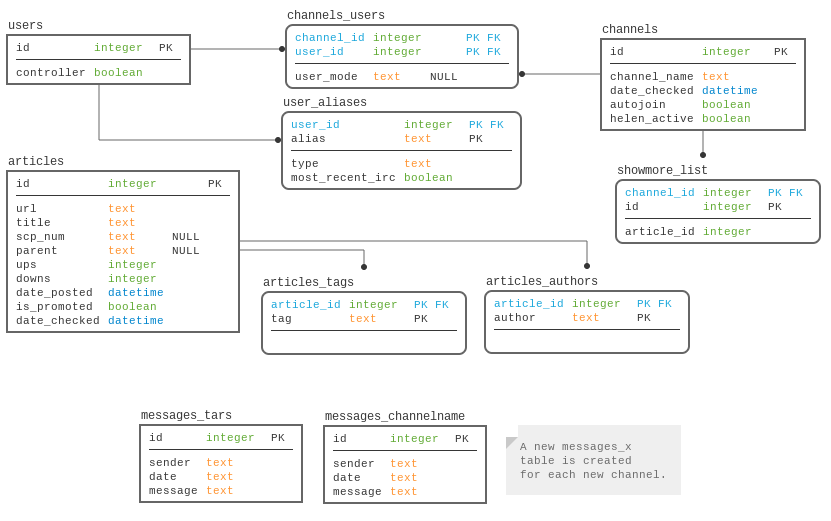
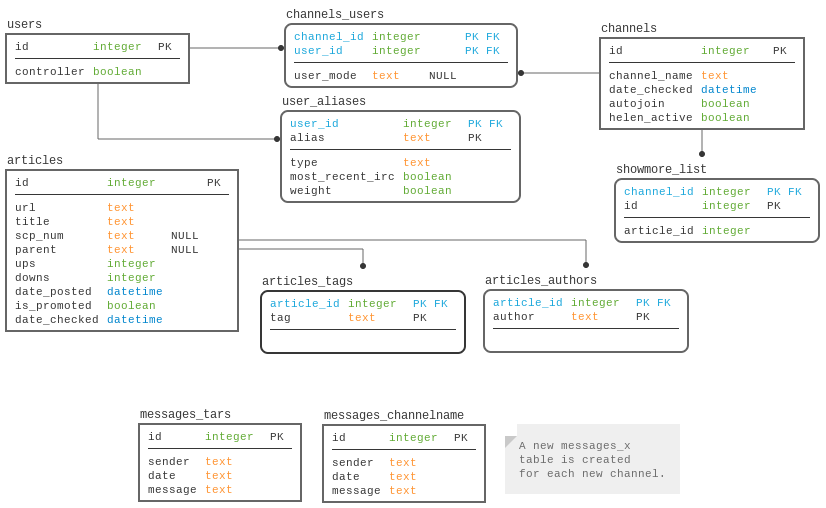
Add some database stuff

diff --git a/helpers/database.py b/helpers/database.py
@@ -117,6 +117,9 @@ class SqliteDriver:
                     CHECK (type IN ('irc','wiki','discord')),
                 most_recent_irc BOOLEAN NOT NULL
                     CHECK (most_recent_irc IN (0,1))
+                    DEFAULT 0,
+                weight BOOLEAN NOT NULL
+                    CHECK (weight IN (0,1))
                     DEFAULT 0
             );
             CREATE TABLE IF NOT EXISTS articles (
@@ -284,7 +287,8 @@ class SqliteDriver:
             SELECT user_id FROM channels_users WHERE channel_id=?
                   """, (id, ))
         users = norm(c.fetchall())
-        dbprint("get_occupants: users is {}".format(join(",",users)))
+        print(users)
+        dbprint("get_occupants: users is {}".format(",".join(map(str,users))))
         assert len(users) > 0, "There are no users in {}.".format(channel)
         if convert_to_nicks:
             users = [self.get_current_nick(id) for id in users]
@@ -294,9 +298,19 @@ class SqliteDriver:
         """Gets the current nick of a user."""
         c = self.conn.cursor()
         c.execute("""
-            SELECT current_nick FROM users WHERE id=?
+            SELECT alias FROM user_aliases
+            WHERE most_recent_irc=1 AND user_id=?
                   """, (id, ))
-        return norm(c.fetchone())
+        name = norm(c.fetchone())
+        if name:
+            return name
+        else:
+            c.execute("""
+                SELECT alias FROM user_aliases
+                WHERE user_id=?
+                      """, (id, ))
+            name = random.choice(norm(c.fechall()))
+            return "??{}".format(name)
 
     def sort_names(self, channel, names):
         """Sort the results of a NAMES query"""
@@ -344,6 +358,10 @@ class SqliteDriver:
         result = c.fetchall()
         if result:
             # this alias already exists
+            # c.execute("""
+            #     UPDATE user_aliases SET most_recent_irc=0
+            #     WHERE alias=?
+            #           """, (
             if len(result) == 1:
                 dbprint("User {} already exists as ID {}"
                         .format(nickColor(alias), norm(result)[0]))
@@ -365,6 +383,7 @@ class SqliteDriver:
             dbprint("Adding user {} as ID {}"
                     .format(nickColor(alias), new_user_id))
             # 2. add the alias
+            # 2.1 mark the previous alias as not current
             c.execute("""
                 INSERT INTO user_aliases (alias, type, user_id)
                 VALUES ( ? , ? , ? )
@@ -372,8 +391,11 @@ class SqliteDriver:
             self.conn.commit()
             return new_user_id
 
+    def add_alias(self,
+
     def rename_user(self, old, new, force=False):
         """Adds a new alias for a user"""
+        # when a user renames, add the new nick at weight 0
         # make sure to handle when a user renames to an alias that exists
         # check if either name already exists (old should)
         c = self.conn.cursor()

diff --git a/plugins/parsemessages.py b/plugins/parsemessages.py
@@ -10,6 +10,7 @@ import sys
 import inspect
 from helpers.error import CommandError, CommandNotExistError
 from importlib import reload
+from pprint import pprint
 
 test = "PARSEMESSAGES"
 
@@ -60,10 +61,13 @@ class ParseMessages(object):
             except CommandError as e:
                 msg.reply("Invalid command: {}".format(str(e)))
             except Exception as e:
-                msg.reply("An unexpected error has occurred.")
+                if msg.channel != '#tars':
+                    msg.reply(("An unexpected error has occurred. "
+                               "I've already reported it — you don't need to "
+                               "do anything."))
                 # need to log the error somewhere - why not #tars?
                 irc_c.PRIVMSG("#tars",("\x02Error report:\x0F {} "
-                                       "issued `{}` --> `{}`"
+                                       "issued `{}` → `{}`"
                                       .format(msg.sender,msg.message,e)))
                 raise
         else:

diff --git a/commands/dbq.py b/commands/dbq.py
@@ -79,7 +79,10 @@ class query:
                 raise CommandError("Specify a channel to get the occupants of")
             msg.reply("Printing occupants of {} to console"
                       .format(cmd.args['root'][1]))
-            users = irc_c.db._driver.get_occupants(cmd.args['root'][1])
-            pprint([nickColor(user) for user in users])
+            users = irc_c.db._driver.get_occupants(cmd.args['root'][1], True)
+            if isinstance(users[0], int):
+                pprint(users)
+            else:
+                pprint([nickColor(user) for user in users])
         else:
             raise CommandError("Unknown argument")

diff --git a/helpers/greetings.py b/helpers/greetings.py
@@ -72,6 +72,14 @@ def acronym_gen():
         "!Tales !Are !Real !Shit",
         "!TARS' !Ass? !Real !Soft.",
         "It's just SRAT but backwards.",
+        "!Tummy & !Ass !Rubs, !Sergeant",
+        "!Thanks, !Anderson !Robotics. !Sweet.",
+        "!Trying !Acronyms !Repeatedly? !Super!",
+        "!Tried !Adding !Rounderhouse - !Sorry!",
+        "!That's !A !Regretful !Sentence",
+        "!These !Are !Really !Something.",
+        "!TARS !Acronym !Repeating !Successfully",
+        "!Turnt !At #!Romanticpenthouse!Suite",
     ]
     last_response = []
     while True:

diff --git a/commands/search.py b/commands/search.py
@@ -282,7 +282,7 @@ class search:
                 #pprint.pprint(url)
                 if url['title'].endswith(" - SCP Foundation"):
                     url['title'] = url['title'][:-17]
-                msg.reply("No matches found. Did you mean: \x02{}\x0F? {}"
+                msg.reply("No matches found. Did you mean \x02{}\x0F? {}"
                            .format(url['title'], url['link']))
             else:
                 msg.reply("No matches found.")

diff --git a/README.md b/README.md
@@ -1,7 +1,9 @@
 # TARS
 IRC bot for IO automation
 
-Check here for documentation: https://rossjrw.github.io/tars/help/
+This README contains instructions for command line usage and implementation
+details. End users looking for command instruction should look at the
+documentation: https://rossjrw.github.io/tars/help/
 
 Documentation is currently far ahead of implementation. Many features described
 in the documentation are not yet present.
@@ -40,6 +42,57 @@ Edit `commands/__init__.py` and add any commands you created to the `COMMANDS`
 dict along with any aliases as a sub-dict. Your command must have at least one
 alias, or it won't be able to be called.
 
+## Commands
+
+Command objects (`cmd`) consist of a dictionary of lists. Each item in the
+dictionary will be named for its flag, and will consist of the list of
+arguments that follow the flag.
+
+`cmd.hasarg('argname')` will return whether or not a flag is present in the
+command.
+
+`cmd.getarg('argname')` will return the list of arguments that follows that
+flag. Where there are no arguments but the flag is present, an empty list will
+be returned.
+
+To account for variations in flag names, `cmd.expandargs` can be called on a
+list of strings that represent flag transformations. For each entry in the
+list, the flag name will be changed to the first entry in the string, delimited
+by a space.
+
+`cmd.expandargs(['tags t', 'author a'])` will mean that `.command --tags -a`
+means the same as `.command -t --author`. The arguments will be accessible from
+`cmd.getarg('tags')` and `cmd.getargs('author')`. `cmd.hasarg('t')` will return
+false.
+
+It is up to the command author to ensure that all flags are unique.
+
+The base arguments (those that appear before any flag) are accessible from the
+pseudoflag `root`, which will always be present.
+
+`cmd` has a few other properties:
+* `cmd.raw` - The original, unparsed message
+* `cmd.ping` - The identity of the command's ping, if any
+* `cmd.unping` - The original message sans ping
+* `cmd.pinged` - Boolean, whether or not the bot was pinged
+* `cmd.command` - The identity of the actual command issued
+* `cmd.args` - The dictionary of arguments
+
+A few other important pieces of information:
+
+* `msg` - [pyaib's message object](https://github.com/facebook/pyaib/wiki/Plugin-Writing#message-object)
+* `irc_c.db._driver.XXX()` - where XXX represents a function in
+  helpers/database.py
+
 ## Database Structure
 
 ![database layout](https://raw.githubusercontent.com/rossjrw/tars/master/database.png)
+
+* `user_aliases.type` - 'wiki', 'irc' or 'discord'
+* `user_aliases.weight` - 0 by default, 1 if the alias is both an IRC name and
+  has been set by `.alias` instead of `/nick`.
+* `messages_xxx.sender` is the IRC name of the user at the time of the message.
+
+`user_aliases` and `articles_authors` are not linked, although aliass of type
+'wiki' should be searchable in `articles_authors`.
+
